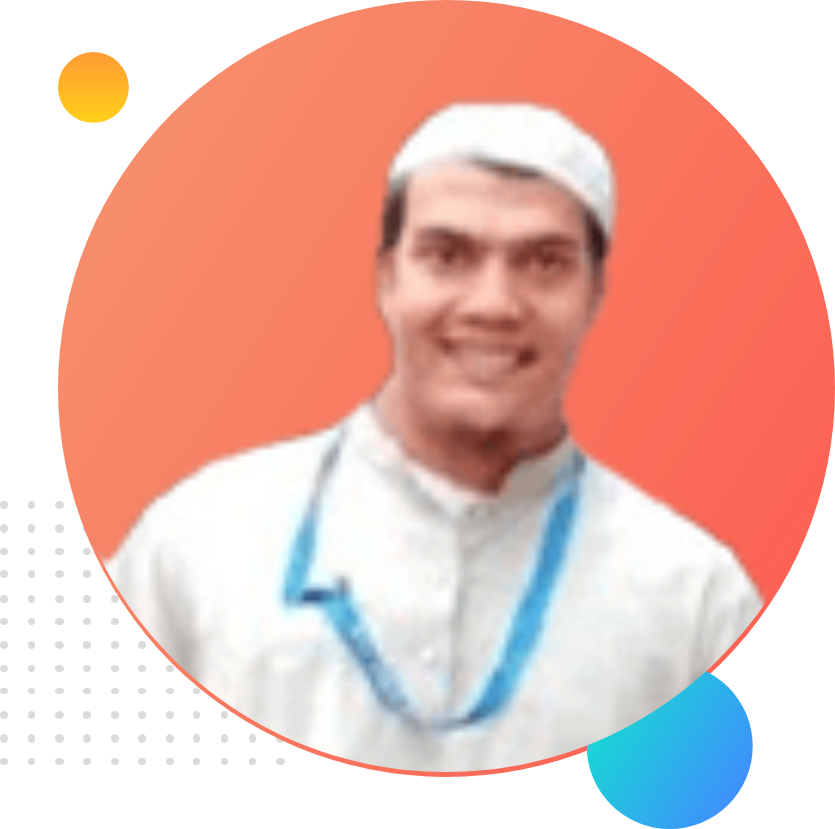
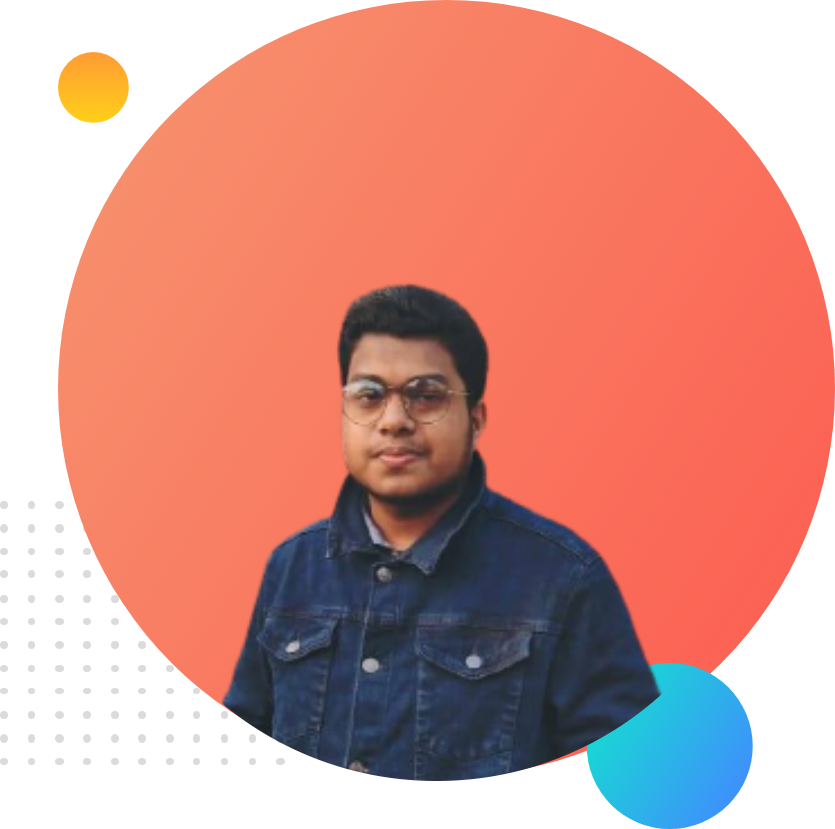
header part send

diff --git a/index.html b/index.html
@@ -5,8 +5,32 @@
     <meta http-equiv="X-UA-Compatible" content="IE=edge">
     <meta name="viewport" content="width=device-width, initial-scale=1.0">
     <title>professional portfolio</title>
+    <link rel="stylesheet" href="style.css">
+    <link rel="preconnect" href="https://fonts.googleapis.com">
+<link rel="preconnect" href="https://fonts.gstatic.com" crossorigin>
+<link href="https://fonts.googleapis.com/css2?family=Poppins:wght@300&display=swap" rel="stylesheet">
 </head>
 <body>
+    <section id="header">
+        <div class="header-part">
+            <h1>Welcome to</h1>
+            <h1><span class="text-color">Atikul Islam</span> World!</h1>
+            <p>Lorem ipsum dolor sit amet consectetur adipisicing elit. Cupiditate explicabo, facilis, voluptas magni ex cumque neque molestiae incidunt fuga voluptatum non repudiandae unde. Nesciunt eveniet eos incidunt qui excepturi quae expedita voluptatem quo omnis adipisci officia necessitatibus sit dolore tempora perspiciatis obcaecati sint dolores, eum optio velit ad. Molestias et consequatur aspernatur iste totam. Eveniet doloremque, iste, tenetur dicta rem qui fugit excepturi, non quis minima laudantium itaque et. Tempora?</p>
+            <a class="link-color" href="http//linkedin.com">Hire Me</a>
+
+        </div>
+
+        <div class="header-part">
+            <img src="images/header-bg.png" alt="Header photo">
+
+        </div>   
+
     
+    
+    </section>
+    
+    
+     
+
 </body>
 </html>

diff --git a/style.css b/style.css
@@ -1,0 +1,31 @@
+body{
+    font-family: 'Poppins', sans-serif;
+    margin: 0;
+}
+
+#header{
+    display: flex;
+    background-image: url(images/top-banner.png);
+    background-repeat: no-repeat;
+}
+.header-part{
+    width: 50%;
+    padding-left: 5%;
+}
+.text-color{
+    color: orange;
+}
+.link-color{
+    padding: 10px 40px;
+    text-decoration: none;
+    background-image: linear-gradient(red,yellow);
+    border-radius: 10px;
+    
+}
+h1{
+    font-size: 50px;
+    
+}.header-part img{
+    width: 100%;
+
+}
